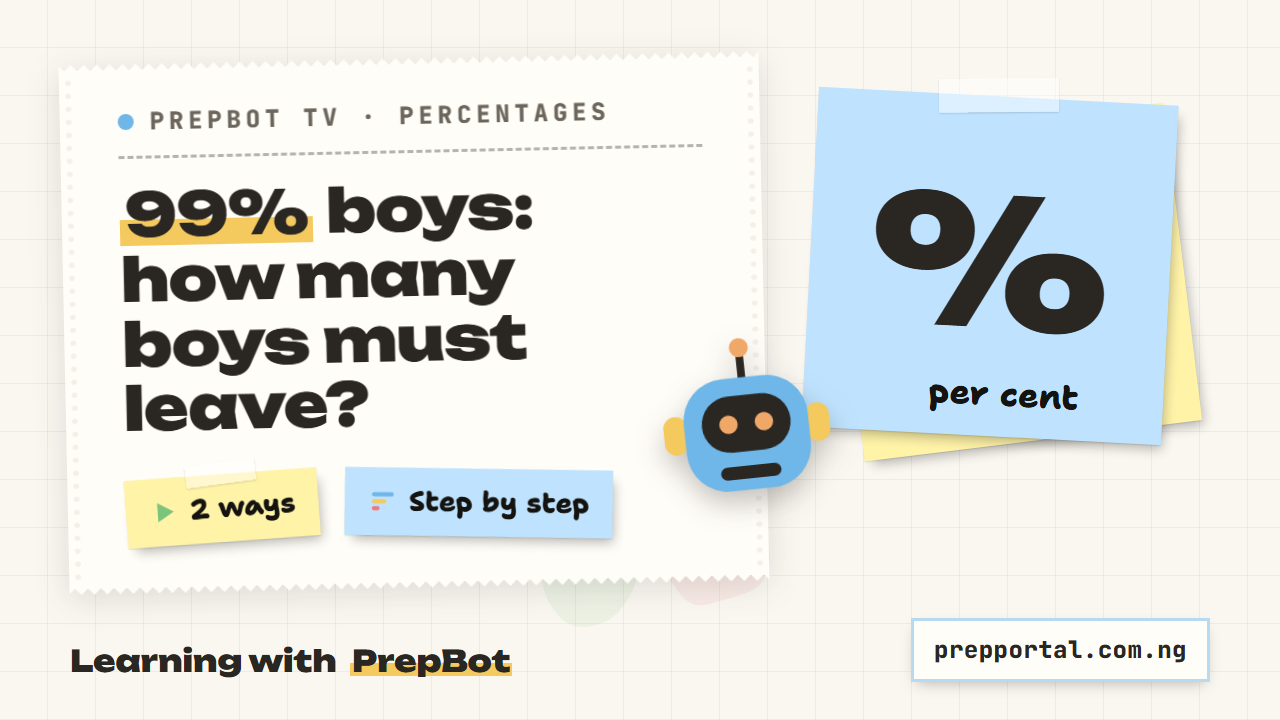
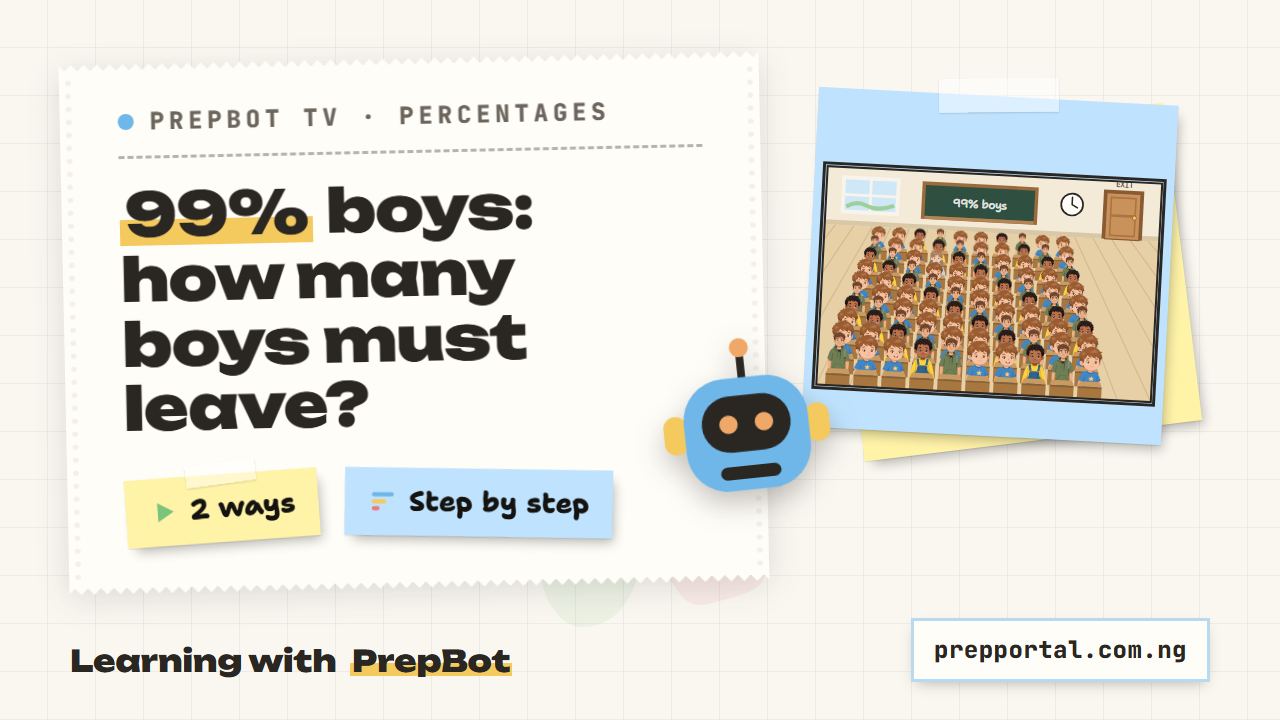
Thumbnails: a film can show its own picture on the note (ART); the 99% boys film shows its classroom, drawn by the film itself (classroomArt)

Changed region(s): [[0.625, 0.2139, 0.9375, 0.5806]]

diff --git a/tools/film-thumbnail/index.html b/tools/film-thumbnail/index.html
@@ -78,6 +78,7 @@
       display: grid; place-items: center; }
     .thumb__front.pp-sticky--tape::before { width: 120px; height: 34px; top: -18px; }
     .thumb__front svg { width: 82%; height: 72%; }
+    .thumb__front--art svg.thumb__room { width: 94%; height: auto; aspect-ratio: 99 / 65; outline: 3px solid #2a2723; margin-top: 10%; }
     .thumb__word { position: absolute; left: 40px; right: 0; bottom: 26px; text-align: center;
       font: 800 34px/1 "Shantell Sans", cursive; color: #14130f; }
     .thumb__bot { position: absolute; left: -150px; bottom: -96px; width: 190px; height: 190px; transform: rotate(-9deg);
@@ -119,6 +120,9 @@
     import { ICON_PREPBOT } from "/prep-math/mental-math/shared/icons.js";
     import { UI } from "/utils/components/ui-icons.js";
     import { PLAYLISTS } from "/utils/components/workbook/playlists.js";
+    import { classroomArt } from "/utils/components/workbook/class-films.js";
+    /* a film can show its OWN picture on the note instead of its subject's sign */
+    const ART = { "pct-boys": { art: classroomArt } };
 
     const INK = "#2a2723";
     /* ONE ENTRY PER SUBJECT: its name, its note papers (the site's sticky pastels), a deeper dot
@@ -156,7 +160,7 @@
     };
 
     /* THE COMPONENT: everything is fixed but the name, and the subject's papers */
-    function thumbnail({ name, topic, lesson }) {
+    function thumbnail({ id: filmId, name, topic, lesson }) {
       const s = SUBJECTS[topic] || SUBJECTS.maths;
       /* the first pill counts the film's ways from its name: "(three ways)" is 3 WAYS; a film
          with no ways in its name is a lesson */
@@ -174,7 +178,7 @@
         + `<span class="thumb__tag pp-sticky pp-sticky--c3" style="--pp-note-tilt:2deg">${UI.steps ? UI.steps(28) : ""}Step by step</span></div>`
         + `</div></div>`
         + `<div class="thumb__notes"><span class="thumb__back pp-sticky"></span>`
-        + `<div class="thumb__front pp-sticky pp-sticky--tape">${s.sign()}<span class="thumb__word">${s.word}</span>`
+        + `<div class="thumb__front pp-sticky pp-sticky--tape${ART[filmId] ? " thumb__front--art" : ""}">${ART[filmId] ? ART[filmId].art() : s.sign()}${ART[filmId] ? "" : `<span class="thumb__word">${s.word}</span>`}`
         + `<div class="thumb__bot">${ICON_PREPBOT}</div></div></div>`
         + `<div class="thumb__brand">Learning with <span>PrepBot</span></div>`
         + `<span class="thumb__url pp-pill" style="--tile:${s.deep}">prepportal.com.ng</span>`

diff --git a/utils/components/workbook/class-films.js b/utils/components/workbook/class-films.js
@@ -329,3 +329,6 @@ export function classBoys() {
 }
 /* the first version told the same story with left- and right-handers; its id plays this film */
 export const classHanded = classBoys;
+
+/** The classroom alone (no bars), for the film's thumbnail: the same drawing, framed on the room. */
+export const classroomArt = () => picture().replace(/viewBox="[^"]*"/, 'viewBox="1.5 1.5 99 65"').replace('overflow="visible"', 'overflow="hidden" class="thumb__room"');
